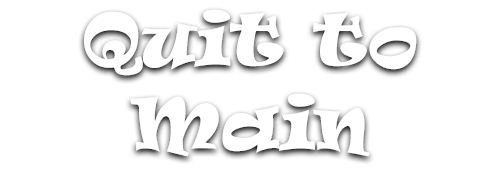
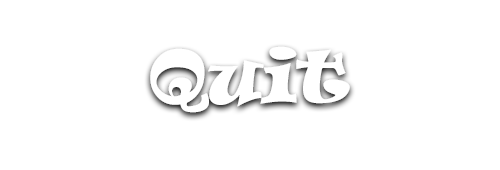
update Finish en GameOverMenu GUI

diff --git a/KBSGame/Gui/FinishMenu.cs b/KBSGame/Gui/FinishMenu.cs
@@ -38,17 +38,19 @@ namespace KBSGame.gui
             style.Alignment = StringAlignment.Center;
             Font font = new Font("Arial", StaticVariables.dpi / 2, FontStyle.Bold);     //Fonttype
 
-            g.FillRectangle(new SolidBrush(Color.FromArgb(180, Color.SandyBrown)), 0, (yRes / 3) * 2, xRes, yRes / 3); //Draw a large square for content
+            g.FillRectangle(new SolidBrush(Color.FromArgb(80, Color.Black)), 0, (yRes / 3) * 2, xRes, yRes / 3); //Draw a large square for content
             Image newImage = Image.FromFile(StaticVariables.textFolder + "/finished.png");
-            g.DrawImage(newImage, xRes / 2 - width / 2, yRes / 3, xRes / 2, (yRes / 3));
+            g.DrawImage(newImage, xRes / 2 - width / 2, yRes / 3, xRes / 2, (yRes / 4));
 
             float fontSize = StaticVariables.dpi / 3; //Create fontSize on the basis of dpi
 
             if (hoverPos >= 0)
-                g.FillRectangle(new SolidBrush(Color.FromArgb(80, Color.Black)), hoverPos * width, (yRes / 3) * 2, width, yRes / 3);
+                g.FillRectangle(new SolidBrush(Color.FromArgb(180, Color.SandyBrown)), hoverPos * width, (yRes / 3) * 2, width, yRes / 3);
 
-            g.DrawString("Home", new Font("Arial", fontSize), new SolidBrush(Color.White), (xRes / 4), (yRes / 4) * 3);     // Create button
-            g.DrawString("Next Level", new Font("Arial", fontSize), new SolidBrush(Color.White), (xRes / 5) * 3, (yRes / 4) * 3); //Create button
+            Image home = Image.FromFile(StaticVariables.textFolder + "/finished_home.png");
+            Image nextlevel = Image.FromFile(StaticVariables.textFolder + "/finished_nextlevel.png");
+            g.DrawImage(home, (xRes / 14), (yRes / 4) * 3, 300, 120);
+            g.DrawImage(nextlevel, (xRes / 5) * 3, (yRes / 4) * 3, 300, 120);
 
             return this.buffer;
 
@@ -75,7 +77,6 @@ namespace KBSGame.gui
                 case 0:
                     setActive(false);
                     
-                    Console.WriteLine("Exit to main menu");
                     Application.Exit();
                     break;
                 case 1:

diff --git a/KBSGame/Gui/GameOverMenu.cs b/KBSGame/Gui/GameOverMenu.cs
@@ -106,10 +106,10 @@ namespace KBSGame
             style.Alignment = StringAlignment.Center;
             Font font = new Font("Arial", StaticVariables.dpi / 2, FontStyle.Bold);
             
-            g.FillRectangle(new SolidBrush(Color.FromArgb(255, Color.SandyBrown)), xRes / 2 - width / 2, topskip, width, yRes / 2);
+            g.FillRectangle(new SolidBrush(Color.FromArgb(80, Color.Black)), xRes / 2 - width / 2, topskip, width, yRes / 3 + 12);
 
             if (hoverPos >= 0)
-                g.FillRectangle(new SolidBrush(Color.FromArgb(80, Color.Black)), xRes / 2 - width / 2, hoverPos * StaticVariables.dpi + topskip, width, StaticVariables.dpi);
+                g.FillRectangle(new SolidBrush(Color.FromArgb(180, Color.SandyBrown)), xRes / 2 - width / 2, hoverPos * StaticVariables.dpi + topskip, width, StaticVariables.dpi);
 
             for (int i = 0; i < buttonList.Count; i++)
             {
@@ -121,12 +121,12 @@ namespace KBSGame
                 Image tryagain = Image.FromFile(StaticVariables.textFolder + "/gameover_try_again.png");
                 g.DrawImage(tryagain, x, y, 300, 120);
                 } else {
-                Image quit = Image.FromFile(StaticVariables.textFolder + "/menu_quit.png");
+                Image quit = Image.FromFile(StaticVariables.textFolder + "/gameover_quit.png");
                 g.DrawImage(quit, x, y, 300, 120);
                 }
             }
             Image newImage = Image.FromFile(StaticVariables.textFolder + "/game_over.png");
-            g.DrawImage(newImage, xRes / 2 - width / 2, 0, width, yRes / 3);
+            g.DrawImage(newImage, xRes / 2 - width / 2, 0, width, yRes / 5);
             return this.buffer;
         }
     }
